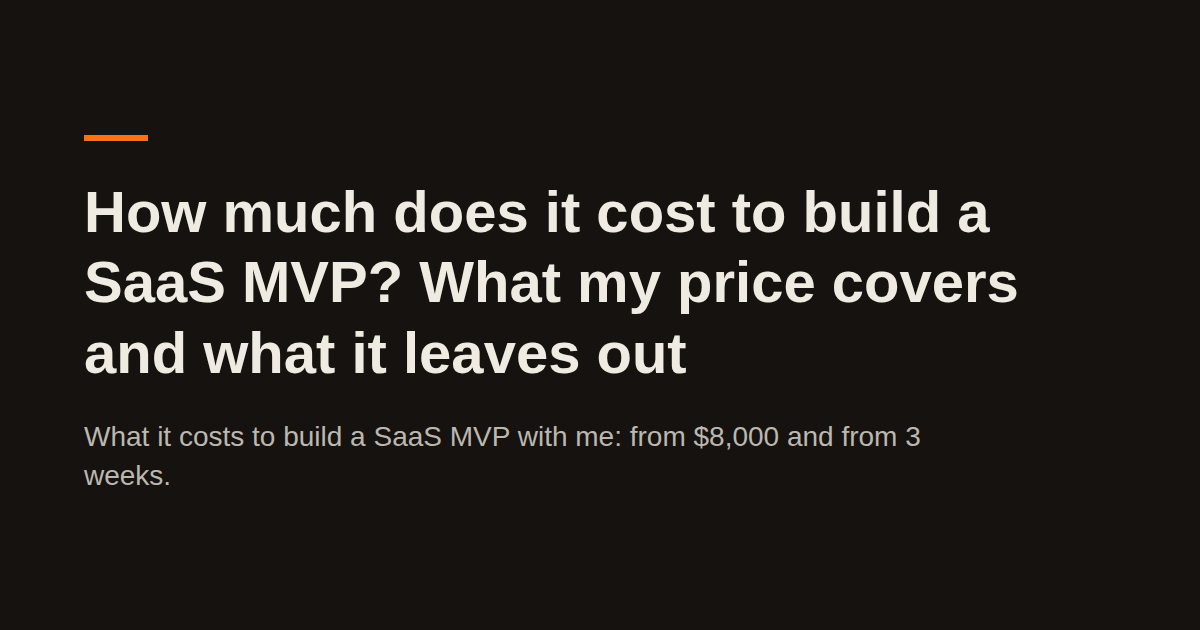
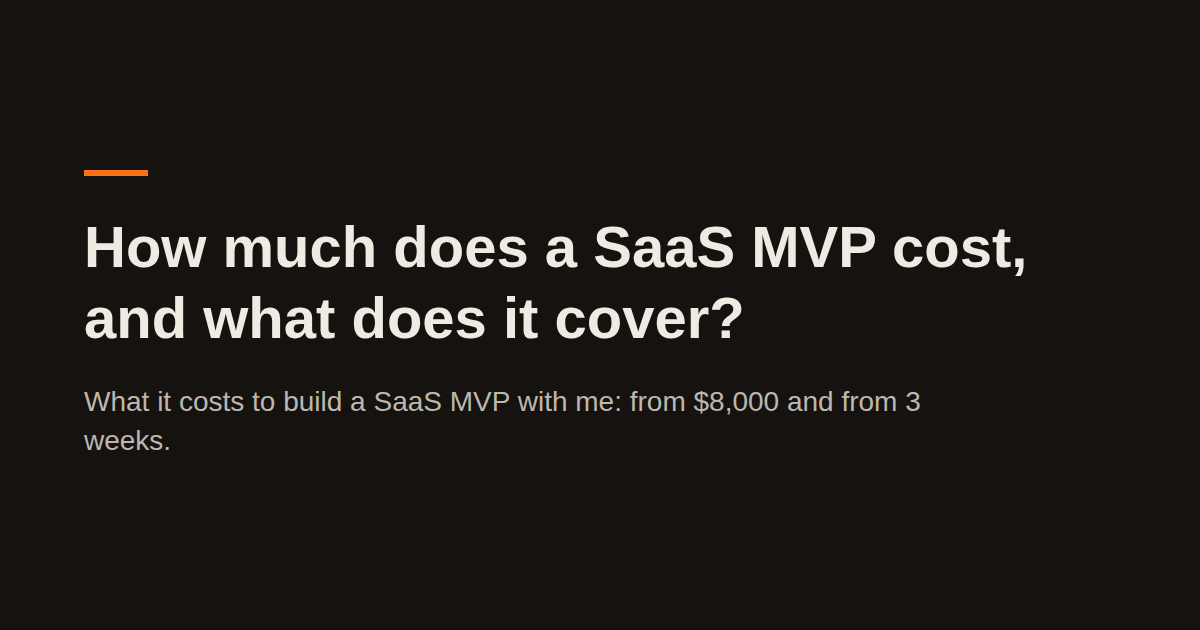
docs(blog): keep the MVP post to sourced claims

Changed region(s): [[0.0617, 0.2714, 0.8633, 0.7841], [0.0617, 0.2111, 0.1233, 0.2413]]

diff --git a/content/blog/how-much-does-a-saas-mvp-cost.md b/content/blog/how-much-does-a-saas-mvp-cost.md
@@ -1,13 +1,12 @@
 ---
-title: "How much does it cost to build a SaaS MVP? What my price covers and what it leaves out"
-seoTitle: "SaaS MVP cost: what my price covers"
+title: "How much does a SaaS MVP cost, and what does it cover?"
 description: "What it costs to build a SaaS MVP with me: from $8,000 and from 3 weeks. What that price covers, what it leaves out and why, and how a change in scope is quoted."
 tldr:
   - "A SaaS MVP with me starts from $8,000 and from 3 weeks. You get a quote for your own scope before any work starts."
   - "The price covers sign-in, Stripe payments, an API, an admin panel, deployment on your server, CI/CD and backups."
-  - "Native mobile apps, integrations beyond Stripe, custom design and features after launch are left out of the base price and quoted on their own."
+  - "Integrations beyond Stripe and features after launch are quoted separately. Native mobile apps and custom illustrations are not included."
   - "If the scope changes once we have started, you get a quote for the change before I start on it."
-intro: "Founders ask me what an MVP costs before anything else, and a number alone does not answer it. This post explains what my price for a SaaS MVP covers, what it leaves out and why, what to prepare before the first call, and what happens after launch."
+intro: "A price alone does not tell you what an MVP costs, because two quotes with the same number can cover very different products. This post explains what my price for a SaaS MVP covers, what it leaves out and why, what to prepare before the first call, and what happens after launch."
 coverImage: "/img/blog/how-much-does-a-saas-mvp-cost/cover.png"
 coverAlt: "The top of the Seed sign-in card in the dark theme: the heading Welcome back, the line Sign in with your email or username, and an empty email field."
 publishedAt: "2026-10-30"
@@ -16,15 +15,12 @@ topic: "founders"
 catalogSlug: "zero-to-production-saas-mvp"
 ---
 
-How much does it cost to build a SaaS MVP? With me, it starts from $8,000, and
-the product is live from 3 weeks. Both numbers say "from" on purpose: they
-depend on your scope, and you get a quote for your scope before any work starts.
-
-A number is only half an answer, though. Two quotes with the same price can
-cover very different products. So here I'll go through what my price covers,
-what it leaves out and why, what to prepare before we talk, and what happens
-when the scope changes or the product is live. The offer itself, with the full
-list, is on the [SaaS MVP service page](/catalog/zero-to-production-saas-mvp).
+How much does it cost to build a SaaS MVP? The number is only half an answer:
+two quotes with the same price can cover very different products. So here I'll
+go through what my price covers, what it leaves out and why, what to prepare
+before we talk, and what happens when the scope changes or the product is live.
+The offer itself, with the full list, is on the
+[SaaS MVP service page](/catalog/zero-to-production-saas-mvp).
 
 ## What the price covers
 
@@ -69,8 +65,8 @@ it:
    separately. Each one has its own API, its own limits and its own failure
    modes, so folding them into one price would mean guessing.
 3. **Design and branding beyond the defaults.** UI tokens and components are
-   included, so the product looks clean and consistent. Custom illustrations and
-   a brand identity are not.
+   included, so the product looks clean and consistent. Custom illustrations are
+   not.
 4. **Features added after launch.** They are quoted once we scope them. You
    learn what to build next from real users, and I'd rather price that work when
    we both know what it is.
@@ -91,8 +87,8 @@ choose. What helps is a clear answer to the questions the quote depends on:
    quoted on its own, so list the ones that are a must on day one.
 3. **Does it need to be a phone app?** If yes, say so early: the build is
    web-responsive only.
-4. **How much of it is design?** If you have a brand, bring it. If the product
-   depends on custom illustrations, that is a separate line.
+4. **How much of it is design?** If you have a brand, bring it. Custom
+   illustrations are not included in the build.
 
 Everything will be in your name: code, accounts, servers and keys. So expect the
 Stripe account, the server and the domain to be yours from the start, not
@@ -121,12 +117,9 @@ paid. The full list of what you can hold me to is on [How I work](/how-i-work).
 
 ## What happens when the scope changes
 
-It will change. You see working software every week, with a short written
-update, and seeing it is exactly when you notice what is missing.
-
-The rule is simple: if the scope changes once we have started, you get a quote
-for the change before I start on it. You decide whether it goes in now, waits
-for after launch, or replaces something else in the plan. No surprise costs.
+You see working software every week, with a short written update. If the scope
+changes once we have started, you get a quote for the change before I start on
+it. No surprise costs.
 
 ## What happens after launch
 
